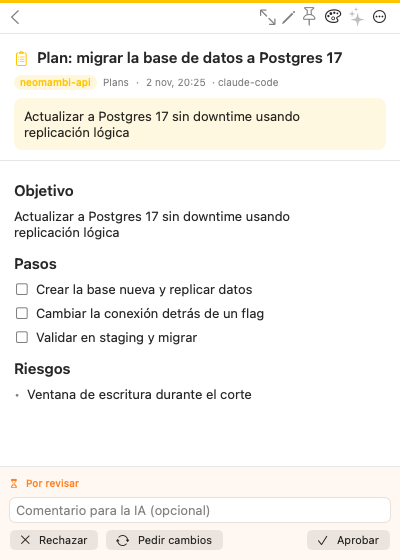
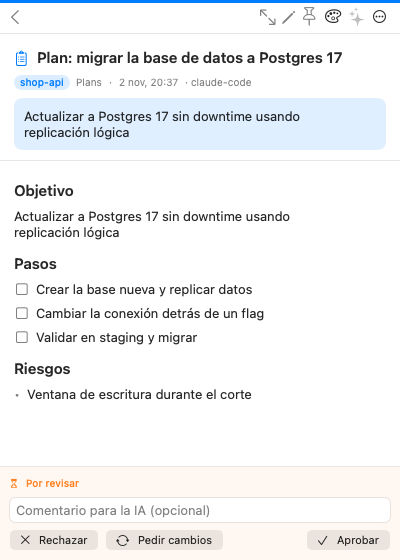
Use a generic example project in screenshots and docs
Sample data and README examples now use "shop-api" instead of a real
project name; screenshots regenerated.

Changed region(s): [[0.03, 0.0911, 0.99, 0.2732], [0.0, 0.0, 1.0, 0.0304]]

diff --git a/README.md b/README.md
@@ -139,7 +139,7 @@ Each note is `~/coTs/<folder>/<YYMMDD-HHMM>.md`. The frontmatter has three layer
 title: Auth module refactor
 summary: Moved sessions to JWT; expiry tests missing
 status: unread            # unread | read | archived
-topic: neomambi-api       # project, detected from the repo
+topic: shop-api       # project, detected from the repo
 tags: [auth]
 source: claude-code
 

diff --git a/README.es.md b/README.es.md
@@ -137,7 +137,7 @@ Cada nota es `~/coTs/<carpeta>/<AAMMDD-HHMM>.md`. El frontmatter tiene tres capa
 title: Refactor del módulo auth
 summary: Migré sesiones a JWT; faltan tests
 status: unread            # unread | read | archived
-topic: neomambi-api       # proyecto, detectado del repo
+topic: shop-api       # proyecto, detectado del repo
 tags: [auth]
 source: claude-code
 
